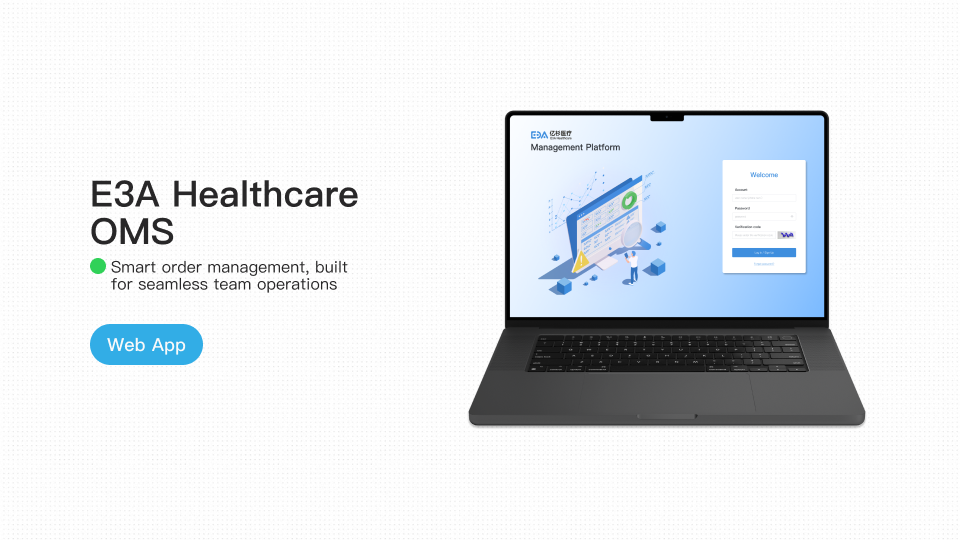
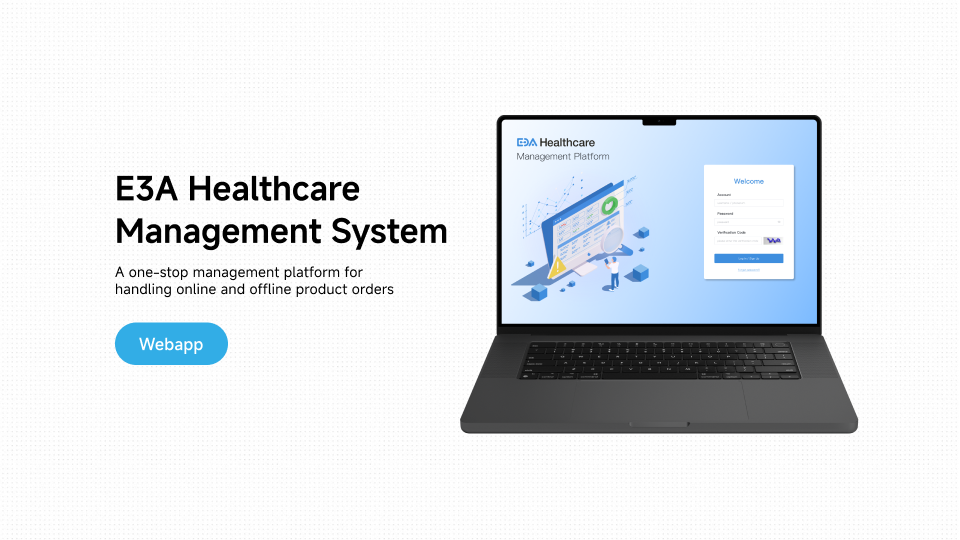
update

Changed region(s): [[0.4688, 0.1778, 0.9062, 0.8296], [0.0938, 0.3259, 0.4688, 0.563], [0.0938, 0.5926, 0.25, 0.6815]]

diff --git a/doge/proj/e3aoms/en.html b/doge/proj/e3aoms/en.html
@@ -29,10 +29,7 @@
       </div>
       <div class="header-image">
         <picture>
-          <!-- 手机尺寸下加载这个图 
-          <source media="(max-width: 768px)" srcset="/doge/proj/e3ajaundicecheck/res/jaundicecheck_mockup_2.png"> -->
-          <!-- 其他尺寸默认加载这个图 -->
-          <img src="/doge/proj/e3aoms/res/e3amanagementplateform_mockup_cn.png" alt="Hero Image">
+          <img src="/doge/proj/e3aoms/res/e3amanagementplateform_mockup_en.png" alt="Hero Image">
         </picture>
       </div>
     </div>
@@ -219,7 +216,7 @@
                 assess the order's progress.</p>
             </div>
             <div class="step2-image-container2">
-              <img src="/doge/proj/e3aoms/res/oms_pic2.png" alt="" onclick="openModal(this)">
+              <img src="/doge/proj/e3aoms/res/oms_pic2_en.png" alt="" onclick="openModal(this)">
             </div>
           </div>
 
@@ -229,7 +226,7 @@
               <p>Indented the sidebar to improve readability and optimize space.</p>
             </div>
             <div class="step2-image-container2">
-              <img src="/doge/proj/e3aoms/res/oms_demo1.gif" alt="" onclick="openModal(this)">
+              <img src="/doge/proj/e3aoms/res/oms_demo1_en.gif" alt="" onclick="openModal(this)">
             </div>
           </div>
 
@@ -240,7 +237,7 @@
                 functions.</p>
             </div>
             <div class="step2-image-container2">
-              <img src="/doge/proj/e3aoms/res/oms_demo2.gif" alt="" onclick="openModal(this)">
+              <img src="/doge/proj/e3aoms/res/oms_demo2_en.gif" alt="" onclick="openModal(this)">
             </div>
           </div>
 
@@ -251,7 +248,7 @@
                 Expanded order status options to cover more scenarios; ④ Introduced additional features for orders.</p>
             </div>
             <div class="step2-image-container2">
-              <img src="/doge/proj/e3aoms/res/oms_pic3.png" alt="" onclick="openModal(this)">
+              <img src="/doge/proj/e3aoms/res/oms_pic3_en.png" alt="" onclick="openModal(this)">
             </div>
           </div>
         </div>
